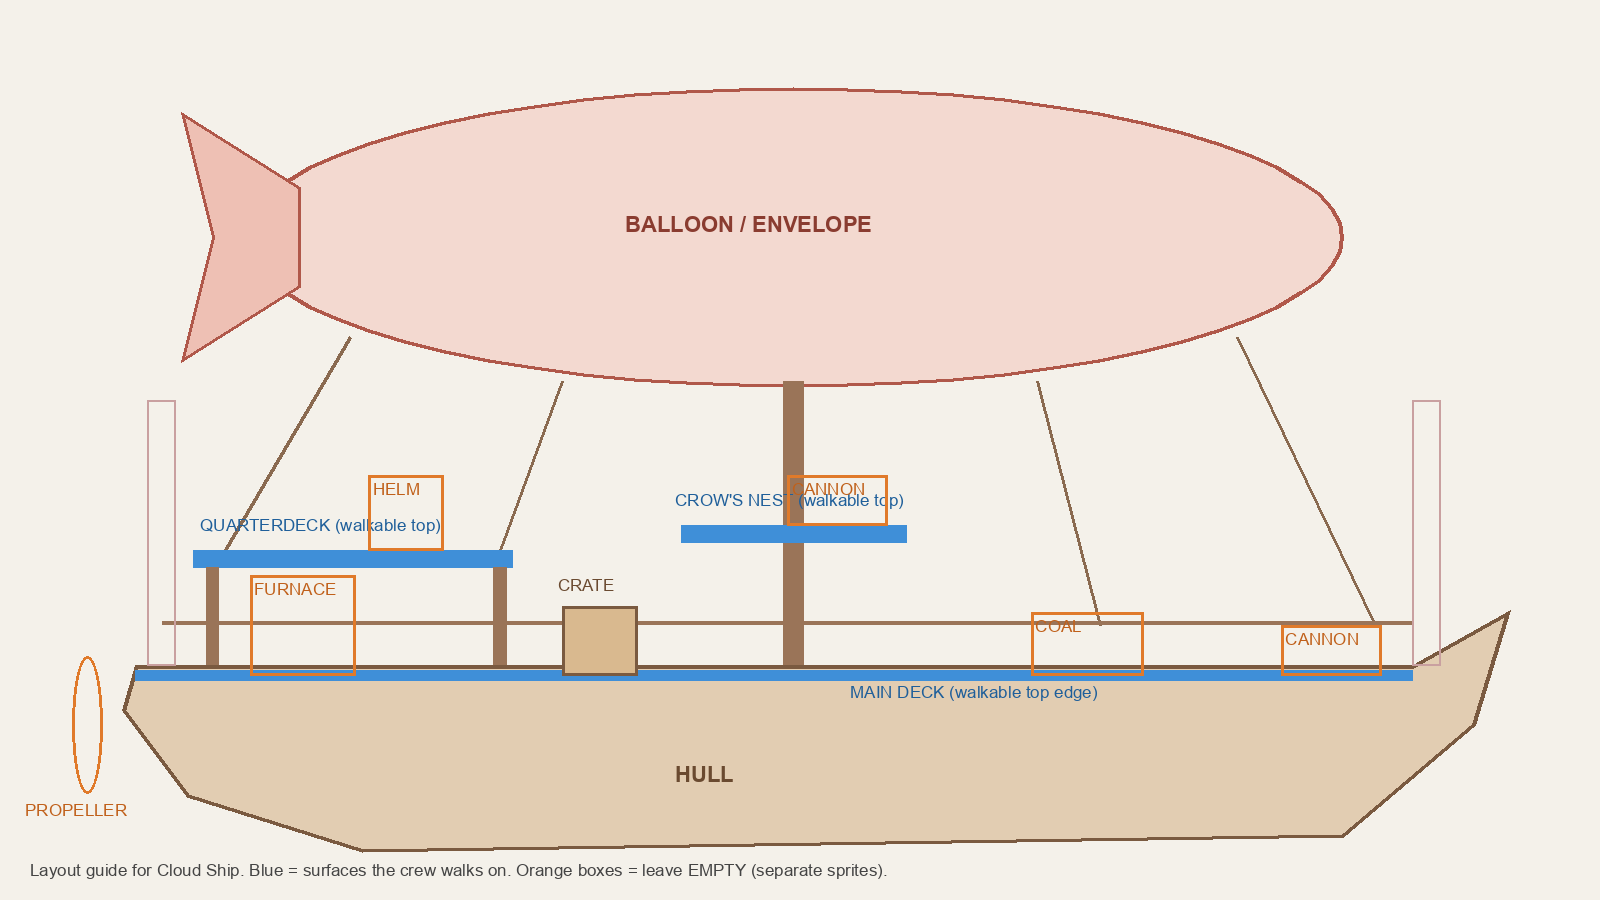
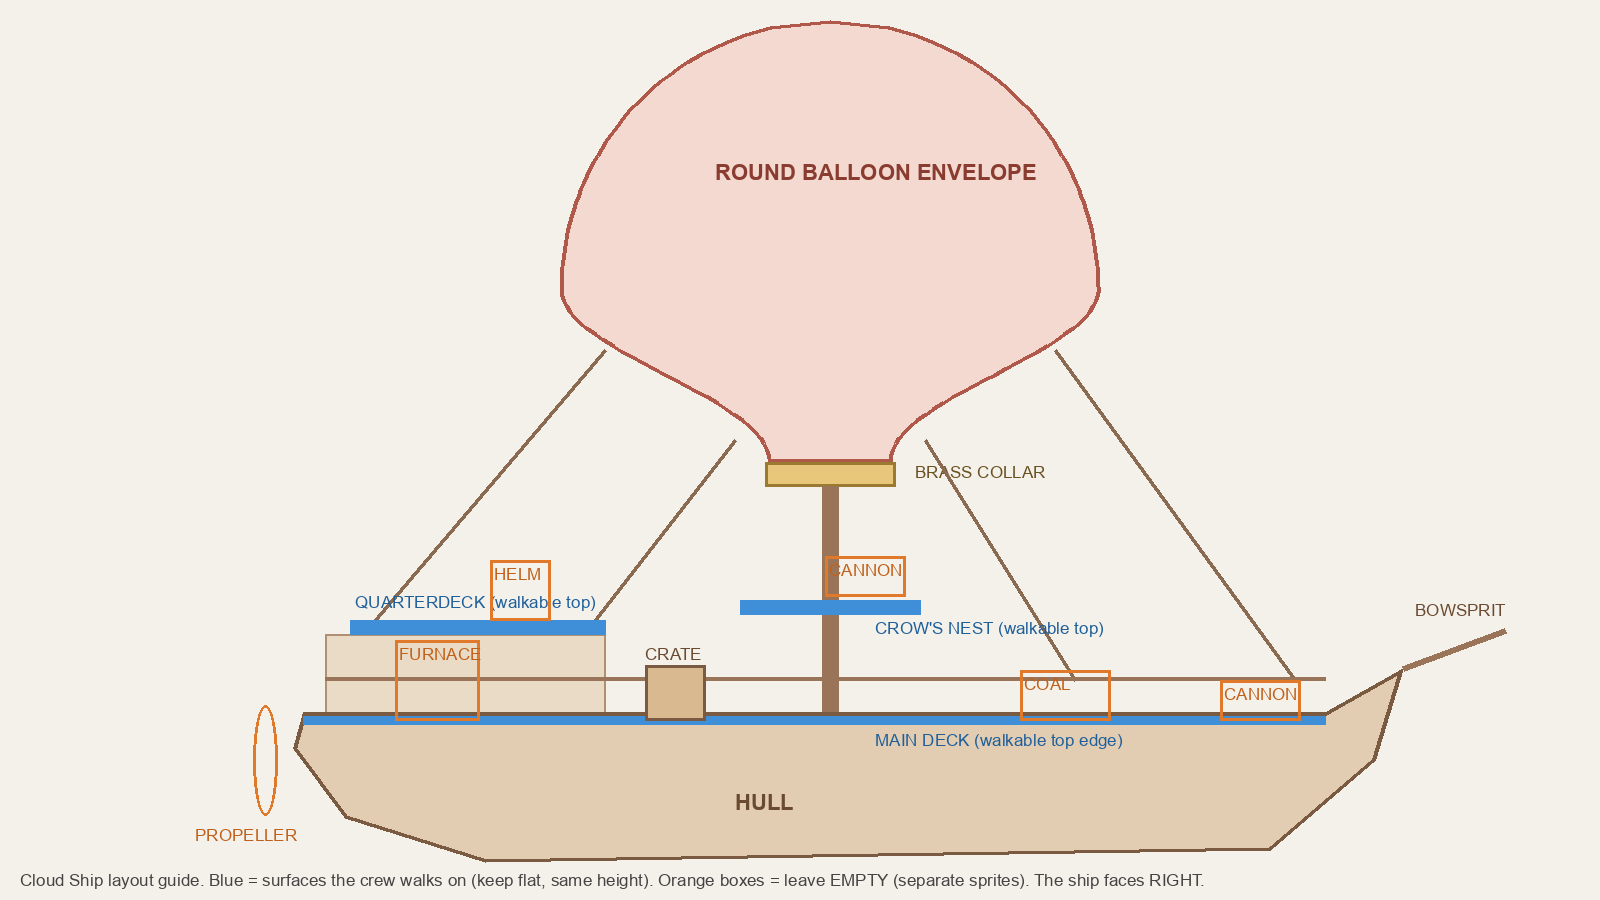
Pick the art direction's style key and switch the ship to a round balloon

diff --git a/docs/art/PROMPTS.md b/docs/art/PROMPTS.md
@@ -9,8 +9,7 @@
 ---
 
 ## 🔁 طريقة العمل (مهمة جدًا)
-1. **ابدأ بالبرومت 00** (المشهد المرجعي). ولّد 3 أو 4 نسخ، واختر أجملها، واحفظها في
-   `docs/art/style_key.png`. **أرفق هذه الصورة مع كل برومت بعدها**، فهي التي تجعل كل الرسومات بأسلوب واحد.
+1. **المرجع:** اخترنا النسخة الأولى من المشهد المرجعي، وهي محفوظة في `docs/art/style_key.jpg`. **أرفقها مع كل برومت**، فهي التي تجعل كل الرسومات بأسلوب واحد. مع برومت البحّار أرفق أيضًا `docs/art/style_key_characters.jpg`، لأن أجسام الشخصيات فيها أوضح.
 2. **الخلفية:** Nano Banana لا يعطي صورًا شفافة، لذلك كل برومت يطلب **خلفية خضراء صافية** (أو **بنفسجية** للنباتات الخضراء). أنا أزيلها بعد ذلك.
 3. **القوالب:** بعض البرومتات تحتاج إرفاق قالب من `docs/art/templates/`، حتى تطابق الرسمة أماكن الطوابق في اللعبة.
 4. **احفظ النتائج** في مجلد `art_inbox/` داخل المشروع بالأسماء المكتوبة هنا، ثم قل لي «وضعت الصور». أنا أزيل الخلفية، وأقص الصور وأصغّرها، وأضع الأجزاء في هيكل حركة، وأدخلها في اللعبة.
@@ -41,14 +40,14 @@ FORMAT: game sprite. Strict side view (orthographic, no perspective), facing RIG
 Key art for a cooperative sky-sailing game. A graceful wooden airship with a large patterned fabric balloon (deep crimson and cream panels with gold trim) glides between floating islands at golden hour. Four small hooded sky-sailors in flowing cloaks (teal, crimson, amber, violet) with softly glowing eyes work on deck: one at the ship's wheel, one at a brass cannon, one carrying glowing coal to a furnace. Brass lanterns glow on the ship. Around them: towering sunlit clouds, a sea of clouds far below, distant floating islands with waterfalls and pink blossom trees, crystals glowing under the islands, god rays, drifting motes of light. Side-on camera like a 2D platformer, the ship in the middle third. Cinematic, magical, premium indie game.
 ```
 
-### 01 — السفينة ← `ship.png` (16:9) — **أرفق** `templates/ship_layout.png` و `style_key.png`
+### 01 — السفينة ← `ship.png` (16:9) — **أرفق** `templates/ship_layout.png` و `style_key.jpg`
 ```
 [STYLE]
 [FORMAT]
-Paint the player's airship EXACTLY on the attached layout sketch: same size, same position and proportions for the balloon, tail fin, mast, crow's nest platform, quarterdeck platform, main deck line, railing, crate and hull. The blue bars are wooden surfaces the crew walks on: their top edges must stay perfectly flat and at the same height as in the sketch. Ship design: warm honey-coloured wooden hull with visible planks, brass trim and rivets, round brass portholes with glowing glass, carved arabesque panels along the hull, a wooden railing, rope rigging to a large fabric balloon with crimson and cream panels, gold seams and a gold-trimmed tail fin, small hanging pierced-brass lanterns under the quarterdeck and the crow's nest. IMPORTANT: leave the areas inside the orange boxes EMPTY deck (no furnace, no ship's wheel, no cannons, no coal, no propeller, no people) — those are separate sprites. Do not paint any labels, lines or boxes from the sketch.
+Paint the player's airship EXACTLY on the attached layout sketch (the first attached image): same size, same position and proportions for the round balloon, brass collar, mast, crow's nest platform, quarterdeck, stern castle, main deck line, railing, crate, hull and bowsprit. The ship faces RIGHT. The blue bars are wooden surfaces the crew walks on: their top edges must stay perfectly flat and at the same height as in the sketch. Ship design, matching the airship in the second attached image: warm honey-brown wooden hull with visible planks, ornate gold arabesque carvings and brass trim, a raised stern castle under the quarterdeck with glowing arched lattice windows, a wooden railing with turned balusters, a long bowsprit, pierced-brass lanterns hanging from the hull and under the crow's nest, rope rigging up to a large round hot-air balloon with crimson and cream panels covered in gold Arabian arabesque patterns, gold seams and a brass collar where it meets the mast. IMPORTANT: leave the areas inside the orange boxes EMPTY deck (no furnace, no ship's wheel, no cannons, no coal, no propeller, no people) — those are separate sprites. Do not paint any labels, lines or boxes from the sketch.
 ```
 
-### 02 — البحّار (أجزاء مفصولة للحركة) ← `sailor_parts.png` (16:9) — **أرفق** `templates/sailor_parts_layout.png` و `style_key.png`
+### 02 — البحّار (أجزاء مفصولة للحركة) ← `sailor_parts.png` (16:9) — **أرفق** `templates/sailor_parts_layout.png` و `style_key.jpg` و `style_key_characters.jpg`
 ```
 [STYLE]
 [FORMAT]
@@ -73,11 +72,11 @@ Three different floating sky boulders in one row with big gaps between them: rou
 
 ## الدفعة 2: بقية الرحلة
 
-### 05 — سفينة القراصنة ← `pirate_ship.png` (16:9) — **أرفق** `ship_layout.png` و `style_key.png`
+### 05 — سفينة القراصنة ← `pirate_ship.png` (16:9) — **أرفق** `ship_layout.png` و `style_key.jpg`
 ```
 [STYLE]
 [FORMAT]
-Paint the sky pirates' flagship on the attached layout sketch (same proportions, but facing LEFT — mirror the layout horizontally). Dark stained purple-black wood, tarnished bronze trim with sharp spikes, a torn dark violet balloon with patched panels and a yellow lightning emblem, tattered pennants, glowing sickly-yellow lanterns and portholes, menacing carved figurehead. Leave the deck empty (no crew). No labels or boxes.
+Paint the sky pirates' flagship on the attached layout sketch (same proportions, but facing LEFT — mirror the layout horizontally). Dark stained purple-black wood, tarnished bronze trim with sharp spikes, a torn round dark violet balloon with patched panels and a yellow lightning emblem, tattered pennants, glowing sickly-yellow lanterns and portholes, menacing carved figurehead. Leave the deck empty (no crew). No labels or boxes.
 ```
 
 ### 06 — المروحة ← `propeller.png` (1:1)
@@ -167,7 +166,7 @@ A sheet of separate puzzle props with big gaps, all at the same scale: (1) a flo
 ---
 
 ## ملاحظات لي (Claude) عند إدخال الصور
-- قالب السفينة: `img = game * 1.25 + (-25, 25)` على لوحة 1600×900. أقيس خط السطح (y=520 في اللعبة) في الصورة الناتجة لأضبط المقياس والإزاحة بدقة.
+- قالب السفينة: `img = game + (175, 200)` على لوحة 1600×900 (قمة البالون عند y=-180 في اللعبة، أعلى الشاشة). البالون الجديد دائري، أي أن `Ship.paint()` والإطار القديم يتغيران. أقيس خط السطح (y=520 في اللعبة) في الصورة الناتجة لأضبط المقياس والإزاحة بدقة.
 - البحّار: أجزاء العباءة رمادية، وأصبغها بلون اللاعب في الكود (modulate) على طبقة العباءة فقط.
 - الطائر: الجناح يدور حول الكتف في الكود لصنع الرفرفة.
 - أزيل الخلفية الخضراء أو البنفسجية بـ chroma key مع تنعيم الحواف، ثم أقص الصور وأصغّرها وأسجّلها في `assets/art/CREDITS.md`.
